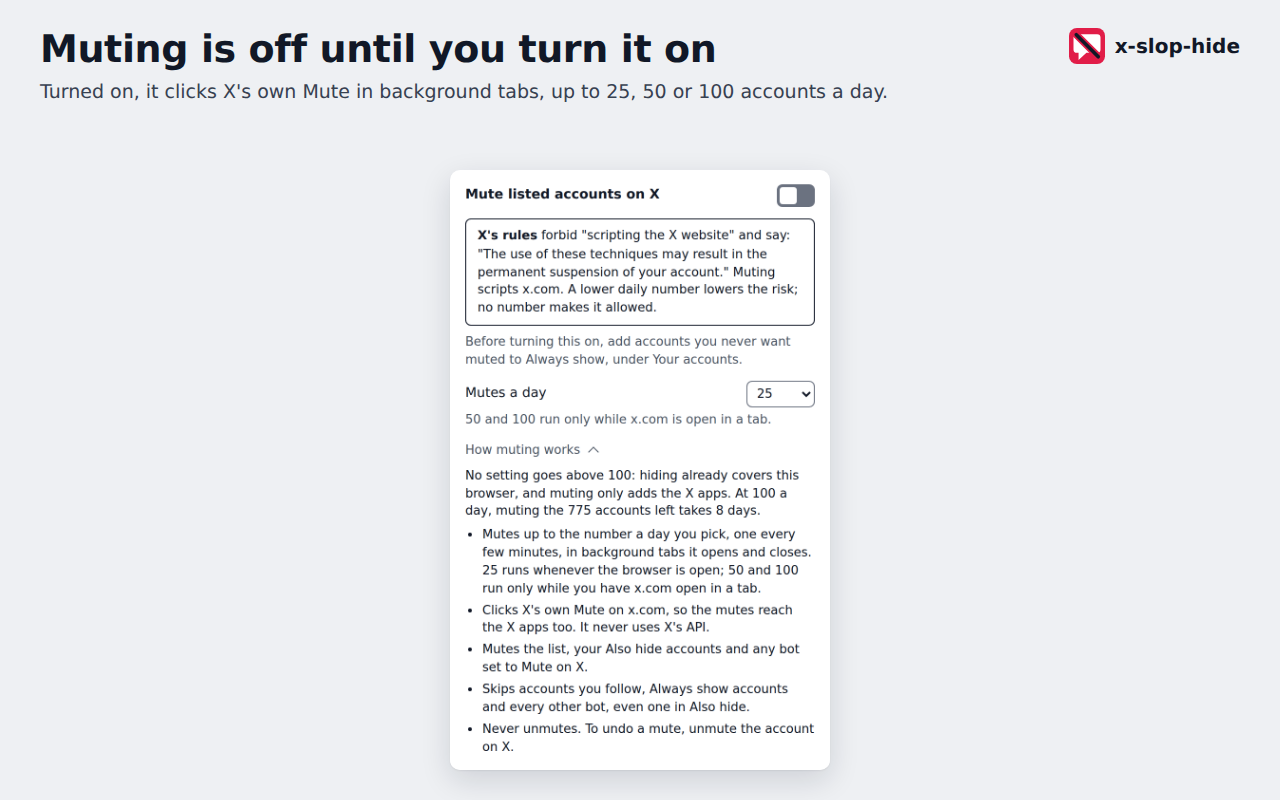
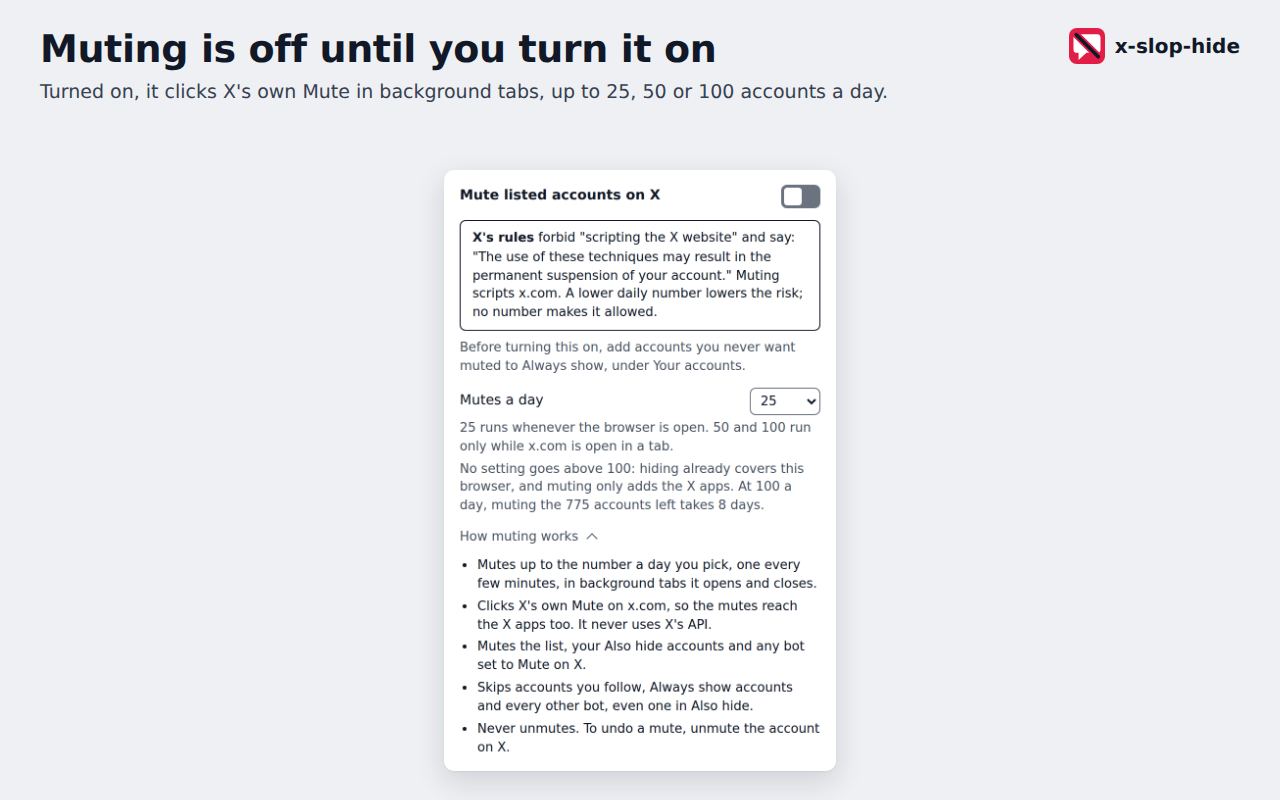
fix(popup): keep the daily-number notes in view and count on-screen posts last
From the review of the redesign:

- "25 runs whenever the browser is open" and the "No setting goes above
  100" note sit under Mutes a day again, in view as in 0.6.1, instead of
  inside the closed How muting works fold. A test checks the note is outside
  every fold.
- A failed refresh says "Still using the previous list." only when there is
  one; a first fetch that failed ends after the reason. New test.
- "K on screen now." comes after both counts, since the page counts posts
  hidden by the list and by tag hiding together; the tag-only line gets it
  too, as 0.6.1 showed it. Test strings follow; the tag-only fixtures get an
  on-screen count to match.
- The Refresh list now test is named for what it checks: the button stays
  enabled (aria-disabled, not disabled) while it works.

Store screenshots 3 and 4 regenerated from this popup.

Changed region(s): [[0.3438, 0.2188, 0.6562, 0.9688]]

diff --git a/src/popup.js b/src/popup.js
@@ -130,7 +130,7 @@
     setText($('list'), `${plural(rec.handles.length, 'account', 'accounts')} on the list`);
     setText($('listAge'), `From ${host}, ${rec.fetchedAt ? `updated ${ago(rec.fetchedAt)}` : 'not fetched yet'}`);
     setHidden($('err'), !rec.lastError);
-    setText($('err'), rec.lastError ? `Last refresh failed (${ago(rec.lastAttemptAt)}): ${rec.lastError}. Still using the previous list.` : '');
+    setText($('err'), rec.lastError ? `Last refresh failed (${ago(rec.lastAttemptAt)}): ${rec.lastError}.${rec.fetchedAt ? ' Still using the previous list.' : ''}` : '');
     $('paused').checked = !!s.paused;
     if (document.activeElement !== $('allow')) $('allow').value = s.allowlist || '';
     if (document.activeElement !== $('extra')) $('extra').value = s.extraList || '';
@@ -157,11 +157,13 @@
     // Tag hiding counts apart from the list; when it hid everything, its count leads.
     if (!st.hiddenPosts && st.hiddenMentions) {
       const one = st.hiddenMentions === 1;
-      return renderTab(`${one ? 'post' : 'posts'} hidden on this tab`, one ? 'It tags a bot.' : 'Each one tags a bot.', st.hiddenMentions);
+      return renderTab(`${one ? 'post' : 'posts'} hidden on this tab`, `${one ? 'It tags a bot.' : 'Each one tags a bot.'} ${st.hiddenNow} on screen now.`, st.hiddenMentions);
     }
     const more = [];
-    if (st.hiddenPosts) more.push(`From ${plural(st.hiddenAuthors.length, 'account', 'accounts')}. ${st.hiddenNow} on screen now.`);
+    if (st.hiddenPosts) more.push(`From ${plural(st.hiddenAuthors.length, 'account', 'accounts')}.`);
     if (st.hiddenMentions) more.push(`Plus ${plural(st.hiddenMentions, 'post that tags', 'posts that tag')} a bot.`);
+    // The page marks every hidden post the same way, so this counts both kinds.
+    if (more.length) more.push(`${st.hiddenNow} on screen now.`);
     renderTab(`${st.hiddenPosts === 1 ? 'post' : 'posts'} hidden on this tab`, more.join(' '), st.hiddenPosts);
   }
 

diff --git a/src/popup.html b/src/popup.html
@@ -219,12 +219,12 @@
       <option value="100">100</option>
     </select>
   </div>
-  <p class="hint">50 and 100 run only while x.com is open in a tab.</p>
+  <p class="hint">25 runs whenever the browser is open. 50 and 100 run only while x.com is open in a tab.</p>
+  <p id="capWhy" class="hint"></p>
   <details class="more">
     <summary class="chev">How muting works</summary>
-    <p id="capWhy"></p>
     <ul>
-      <li>Mutes up to the number a day you pick, one every few minutes, in background tabs it opens and closes. 25 runs whenever the browser is open; 50 and 100 run only while you have x.com open in a tab.</li>
+      <li>Mutes up to the number a day you pick, one every few minutes, in background tabs it opens and closes.</li>
       <li>Clicks X's own Mute on x.com, so the mutes reach the X apps too. It never uses X's API.</li>
       <li>Mutes the list, your Also hide accounts and any bot set to Mute on X.</li>
       <li>Skips accounts you follow, Always show accounts and every other bot, even one in Also hide.</li>

diff --git a/README.md b/README.md
@@ -145,9 +145,10 @@ folded; click a heading to open it. A folded heading shows its counts, such as
 
 **Save** saves both boxes at once. On an x.com tab, the popup opens with the
 count of what it hid there, "N posts hidden on this tab", and under it "From M
-accounts. K on screen now." It adds "Plus N posts that tag a bot." when tag
-hiding hid any; when tag hiding hid posts and the list hid none, the count is of
-those posts, with "Each one tags a bot." On a tab it cannot count, another site
+accounts." It adds "Plus N posts that tag a bot." when tag hiding hid any, then
+"K on screen now.", which counts both. When tag hiding hid posts and the list
+hid none, the count is of those posts, with "Each one tags a bot. K on screen
+now." On a tab it cannot count, another site
 or an x.com tab opened before the extension was installed or reloaded, it says
 "Open x.com in this tab to see what was hidden. If it is already open, reload
 the tab." While hiding is paused, it says "Hiding is paused" on every tab. The
@@ -552,8 +553,9 @@ that.
 
 ### The popup says "Last refresh failed (…): …. Still using the previous list."
 
-The list you already had is still in use. The text after the colon says why
-the update was refused:
+The list you already had is still in use. If no list was ever fetched, the line
+ends after the reason and the popup shows 0 accounts on the list. The text
+after the colon says why the update was refused:
 
 | Reason | Meaning |
 |---|---|
